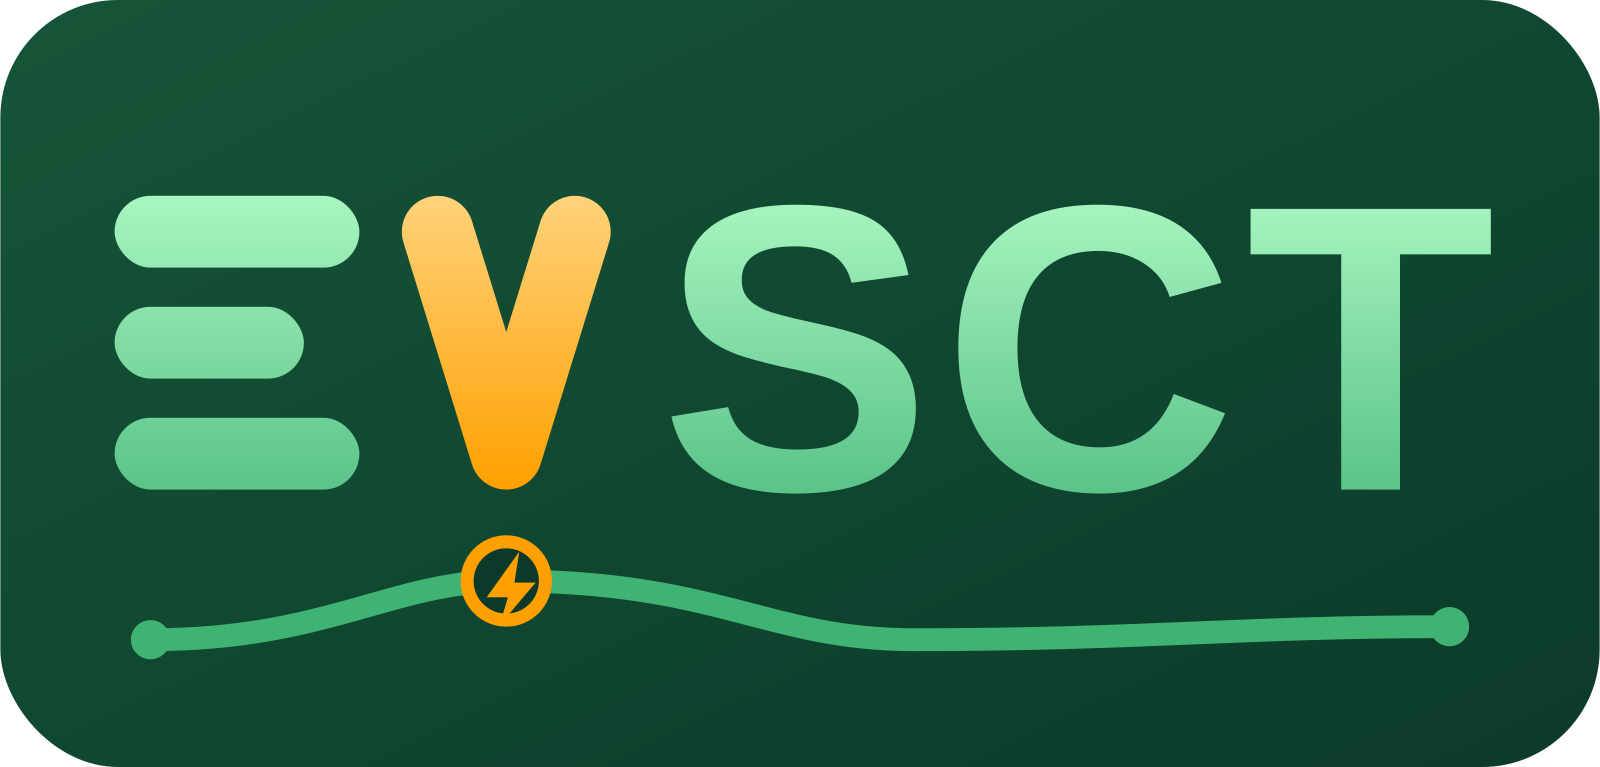
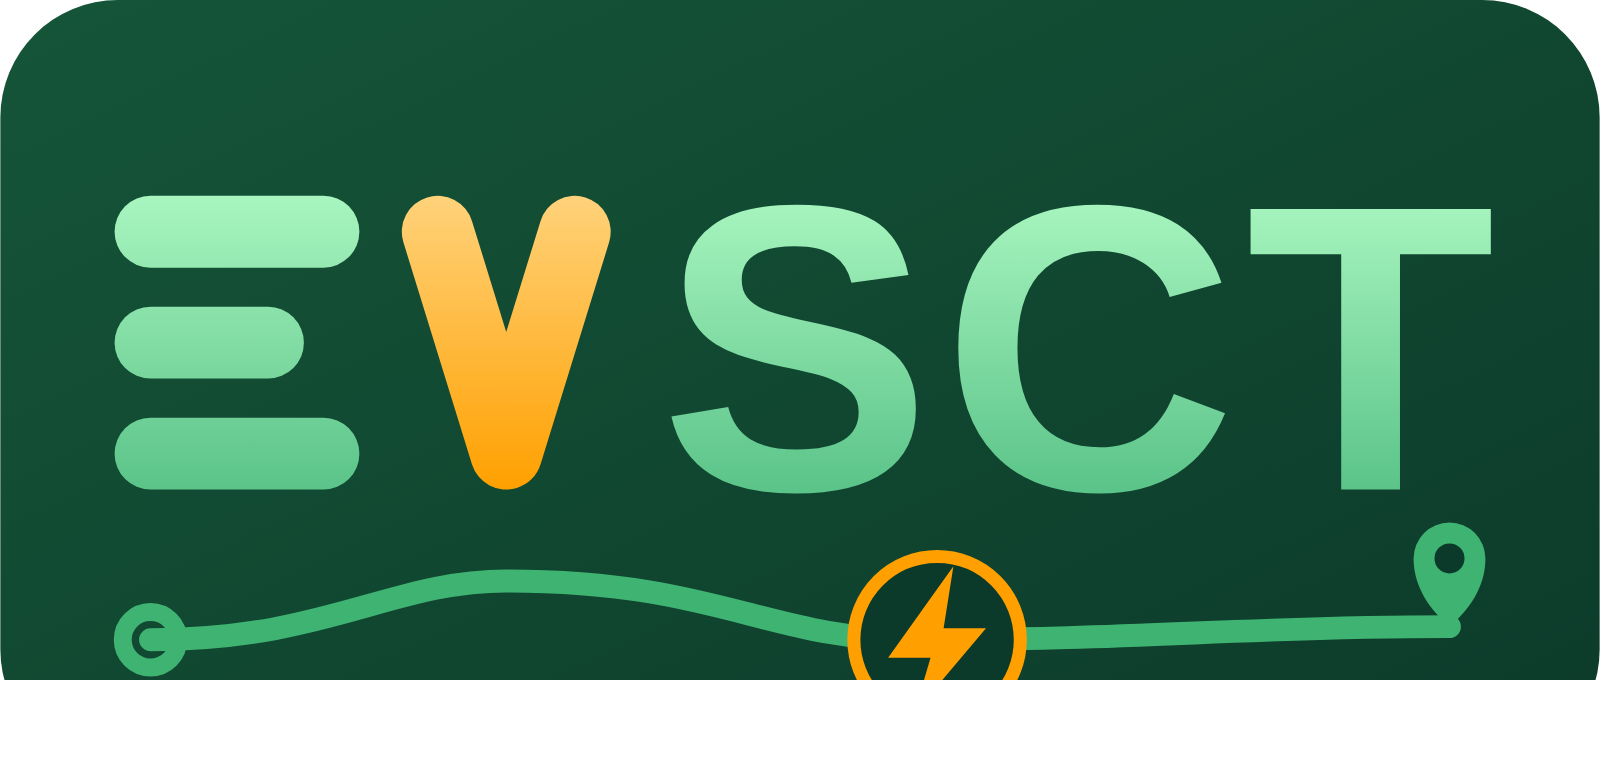
Rework brand mark: bigger bolt, A-to-B route markers
- Lightning bolt node enlarged 2x in the icon and banner, 1.5x in the
  lockup badge where 2x overwhelmed the small route curve.
- Route line ends now read as a trip: open ring at the start,
  map pin at the destination, replacing the plain endpoint dots.
- Banner bolt node moved along the route from under the V (which it
  was crowding at the new size) to the flat stretch between S and C.
- Lockup badge route redrawn with a gentler approach into the pin so
  the pin reads clearly, bolt node slid down the left slope.
- Regenerated .svgz and PNG exports, and mirrored the geometry into
  the app: launcher foreground/monochrome drawables, the two top-bar
  lockup layers (viewport grew to fit the new markers), and the raw
  lockup SVG inlined in Year recap HTML exports.

Claude-Session: https://claude.ai/code/session_01DHfNpx1mGpu7p4Rj9t8bHL

diff --git a/docs/branding/README.md b/docs/branding/README.md
@@ -24,7 +24,7 @@ SVGs (identical content, ~60% smaller).
 | Icon background | `#0F4C3A` | Adaptive launcher background |
 | Mint | `#A8F5BF` → `#5BC489` | Bars, `SCT`, route highlights |
 | Amber | `#FFD27A` → `#FFA000` | `V`, charge-stop node |
-| Route green | `#3FB372` | Route line + endpoint dots |
+| Route green | `#3FB372` | Route line + A→B markers (start ring, destination pin) |
 
 The Android adaptive launcher icon is generated from the same geometry:
 `app/src/main/res/drawable/ic_launcher_foreground.xml` (full-colour) and
